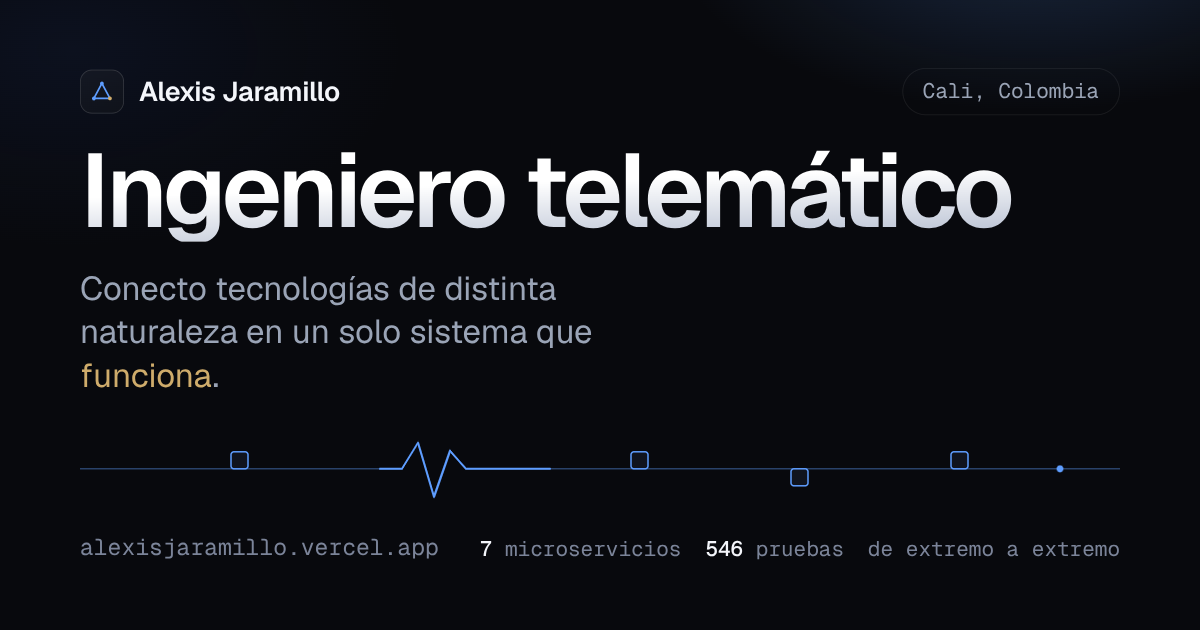
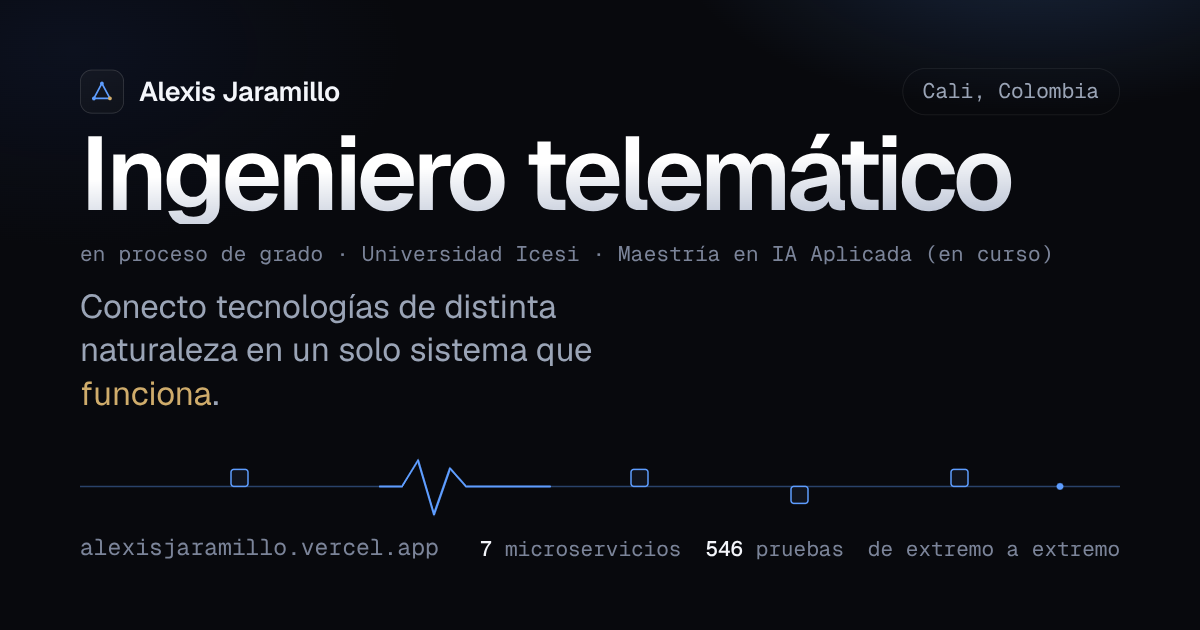
Honestidad: "en proceso de grado" en superficies fuera de contexto
Las menciones de "Ingeniero telemático" que se ven SIN la página (og-image
para shares, <title>/JSON-LD para snippets, eyebrow del hero) no podían
leerse como título ya conferido. Se añade el calificador de fuente-de-verdad
§2 ("en proceso de grado") de forma discreta:
- eyebrow del hero, meta description, OG/Twitter description, JSON-LD jobTitle
- og-image: línea calificadora bajo el headline (sin recargarlo)

Changed region(s): [[0.0617, 0.2111, 0.8633, 0.6635], [0.0925, 0.6937, 0.925, 0.8143], [0.0617, 0.2111, 0.0925, 0.2413]]

diff --git a/landing/index.html b/landing/index.html
@@ -7,14 +7,14 @@
   <meta name="theme-color" content="#08090D" />
 
   <title>Alexis Jaramillo — Ingeniero telemático</title>
-  <meta name="description" content="Ingeniero telemático en Cali, Colombia. Conecto servicios, datos y modelos en sistemas que operan de extremo a extremo: plataformas en la nube, microservicios e IA aplicada con evaluación reproducible." />
+  <meta name="description" content="Ingeniero telemático (en proceso de grado) en Cali, Colombia. Conecto servicios, datos y modelos en sistemas que operan de extremo a extremo: plataformas en la nube, microservicios e IA aplicada con evaluación reproducible." />
   <meta name="author" content="Alexis Jaramillo Martínez" />
   <link rel="canonical" href="https://alexisjaramillo.vercel.app/" />
 
   <meta property="og:type" content="website" />
   <meta property="og:url" content="https://alexisjaramillo.vercel.app/" />
   <meta property="og:title" content="Alexis Jaramillo — Ingeniero telemático" />
-  <meta property="og:description" content="Conecto tecnologías de distinta naturaleza en un solo sistema que funciona. Plataformas, microservicios e IA aplicada, de extremo a extremo." />
+  <meta property="og:description" content="Ingeniero telemático en proceso de grado. Conecto tecnologías de distinta naturaleza en un solo sistema que funciona: plataformas, microservicios e IA aplicada, de extremo a extremo." />
   <meta property="og:locale" content="es_CO" />
   <meta property="og:site_name" content="Alexis Jaramillo" />
   <meta property="og:image" content="https://alexisjaramillo.vercel.app/assets/og-image.png" />
@@ -23,7 +23,7 @@
   <meta property="og:image:alt" content="Alexis Jaramillo — Ingeniero telemático" />
   <meta name="twitter:card" content="summary_large_image" />
   <meta name="twitter:title" content="Alexis Jaramillo — Ingeniero telemático" />
-  <meta name="twitter:description" content="Conecto tecnologías de distinta naturaleza en un solo sistema que funciona." />
+  <meta name="twitter:description" content="Ingeniero telemático en proceso de grado. Conecto tecnologías de distinta naturaleza en un solo sistema que funciona." />
   <meta name="twitter:image" content="https://alexisjaramillo.vercel.app/assets/og-image.png" />
   <meta name="twitter:image:alt" content="Alexis Jaramillo — Ingeniero telemático" />
 
@@ -45,7 +45,7 @@
     "name": "Alexis Jaramillo Martínez",
     "url": "https://alexisjaramillo.vercel.app/",
     "image": "https://alexisjaramillo.vercel.app/assets/og-image.png",
-    "jobTitle": "Ingeniero telemático",
+    "jobTitle": "Ingeniero telemático (en proceso de grado)",
     "email": "alexisj4a@gmail.com",
     "telephone": "+573053235152",
     "address": { "@type": "PostalAddress", "addressLocality": "Cali", "addressCountry": "CO" },
@@ -288,7 +288,7 @@
     <div class="wrap">
       <div class="hero">
         <div class="hero__copy">
-          <span class="ann"><span class="led" aria-hidden="true"></span>Ingeniero telemático · Cali, Colombia</span>
+          <span class="ann"><span class="led" aria-hidden="true"></span>Ingeniero telemático · en proceso de grado · Cali, Colombia</span>
           <h1 class="lede" id="hero-title">Conecto tecnologías de distinta naturaleza en un solo sistema que <span class="proof">funciona</span>.</h1>
           <p class="sub">Telecomunicaciones más informática. Integro servicios, datos y modelos en sistemas que operan de extremo a extremo y resuelven un problema de negocio.</p>
           <div class="cta">
